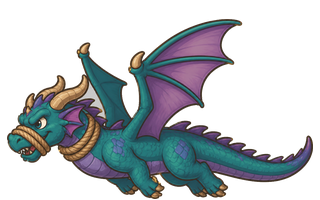
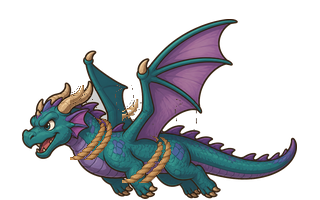
Match Cave Dragon fly ropes to the floor tied stages.
Flying stage 2 had a muzzle instead of the land pose's neck + mid-torso
coils. Rebuild those frames from the stage-1 neck ropes plus a torso stamp
so a mid-fight fly-by reads the same bindings as when he is landed.

Changed region(s): [[0.0, 0.09, 1.0, 1.0]]

diff --git a/tools/paint_dragon_fly_ropes.py b/tools/paint_dragon_fly_ropes.py
@@ -1,0 +1,85 @@
+#!/usr/bin/env python3
+"""Make Cave Dragon fly-bound ropes match the floor tied stages.
+
+Floor stage 1 = neck coils. Floor stage 2 = neck coils + mid-torso coils.
+Existing fly_bound1 already matches stage 1. fly_bound2 wrongly used a muzzle;
+rebuild it from fly_bound1 (keep the neck ropes) plus torso coils stamped in
+the same painted rope style.
+"""
+
+from __future__ import annotations
+
+from pathlib import Path
+
+from PIL import Image
+
+ROOT = Path(__file__).resolve().parents[1]
+OUT = ROOT / "assets" / "world"
+
+
+def _rope_layer(base: Image.Image, tied: Image.Image, region: tuple[int, int, int, int]) -> Image.Image:
+	"""Pixels in `tied` that look like warm rope and differ from `base`, cropped to region."""
+	x0, y0, x1, y1 = region
+	pb, pt = base.load(), tied.load()
+	layer = Image.new("RGBA", base.size, (0, 0, 0, 0))
+	pl = layer.load()
+	for y in range(y0, y1):
+		for x in range(x0, x1):
+			r0, g0, b0, a0 = pb[x, y]
+			r, g, b, a = pt[x, y]
+			if a < 12:
+				continue
+			if a0 >= 12 and abs(r - r0) + abs(g - g0) + abs(b - b0) < 40:
+				continue
+			# Warm rope / lasso tan (matches hand-painted bound1 coils).
+			if r < 90 or g < 55 or b > 140:
+				continue
+			if r < g - 8 or (r - b) < 28:
+				continue
+			pl[x, y] = (r, g, b, a)
+	return layer
+
+
+def _stamp_torso_from_neck(neck_layer: Image.Image) -> Image.Image:
+	"""Duplicate the neck coil cluster onto the mid-torso, slightly larger."""
+	bbox = neck_layer.getbbox()
+	if bbox is None:
+		return Image.new("RGBA", neck_layer.size, (0, 0, 0, 0))
+	coil = neck_layer.crop(bbox)
+	# Mid-body is a bit thicker than the neck on the fly pose.
+	scaled = coil.resize(
+		(max(1, int(coil.size[0] * 1.18)), max(1, int(coil.size[1] * 1.12))),
+		Image.LANCZOS,
+	)
+	out = Image.new("RGBA", neck_layer.size, (0, 0, 0, 0))
+	# Place under the wing root / mid ribs (right of the neck coils).
+	tx = bbox[0] + 52
+	ty = bbox[1] + 14
+	out.paste(scaled, (tx, ty), scaled)
+	return out
+
+
+def _build_bound2(flap: int) -> Path:
+	base = Image.open(OUT / f"boss_cave_dragon_fly_{flap}.png").convert("RGBA")
+	bound1 = Image.open(OUT / f"boss_cave_dragon_fly_bound1_{flap}.png").convert("RGBA")
+	# Neck coils live just behind the jaw on the fly pose.
+	neck = _rope_layer(base, bound1, (70, 85, 145, 160))
+	torso = _stamp_torso_from_neck(neck)
+	out = base.copy()
+	# Neck first (same as bound1), then torso — floor stage 2 order.
+	out.alpha_composite(neck)
+	out.alpha_composite(torso)
+	dest = OUT / f"boss_cave_dragon_fly_bound2_{flap}.png"
+	out.save(dest)
+	return dest
+
+
+def build() -> None:
+	# bound1 already matches floor stage 1 — only repair bound2.
+	for flap in (0, 1):
+		path = _build_bound2(flap)
+		print("wrote", path.relative_to(ROOT))
+
+
+if __name__ == "__main__":
+	build()

diff --git a/tools/build_dragon_art.py b/tools/build_dragon_art.py
@@ -56,6 +56,13 @@ def main() -> int:
         framed.save(dest)
         print("wrote", dest.relative_to(ROOT), framed.size)
 
+    # Fly bound2 concepts painted a muzzle; rebuild from bound1 neck + torso coils
+    # so flying matches floor stage-2 ropes (neck + mid-body, mouth free).
+    sys.path.insert(0, str(ROOT / "tools"))
+    from paint_dragon_fly_ropes import build as paint_fly_ropes  # noqa: E402
+
+    paint_fly_ropes()
+
     flame = CONCEPT / "dragon_flameball_concept.png"
     if flame.is_file():
         shutil.copy2(flame, SOURCE / flame.name)

diff --git a/README.md b/README.md
@@ -2,7 +2,7 @@
 
 Child-friendly 2D western cowboy platformer (Godot **4.4**). Aimed at kids ~6: forgiving jumps, nonviolent lasso. **Classic mode** has no lives or game over; **Advanced Mode** (chosen in **Settings** before starting or continuing a slot) adds a three-life limit, badge milestones, and a game-over return to the start screen. Pick **Cowboy** or **Cowgirl** in Settings — the choice applies across all save slots. **German is the default language**; English is fully supported.
 
-**Content version:** `1.8.58` (see `content_version.txt`). Launchers reimport when this stamp changes.
+**Content version:** `1.8.59` (see `content_version.txt`). Launchers reimport when this stamp changes.
 
 This README is the **binding source of truth** for gameplay, level design, art, i18n, and audio. Agents and contributors must follow it (see [Agent / contributor rules](#agent--contributor-rules)).
 
@@ -91,7 +91,7 @@ godot --headless --path . res://tests/test_moving_platform_obstruction.tscn
 | Level 3 | Stampede Bull | Bounce past horns; lasso glowing back ring 3× while stunned |
 | Level 7 | Midnight Coach | Horse chase; lasso door handles 1→2→3 |
 | Level 10 | Outlaw Kingpin | Lasso both guards, then the kingpin once (walk cycle while patrolling) |
-| Level 15 | Cave Dragon | Starts on the floor, takes off into L↔R flight spitting straight flameballs that die on the floor (2×2), land for lasso; repeat; 3rd lasso ties the mouth |
+| Level 15 | Cave Dragon | Starts on the floor, takes off into L↔R flight spitting straight flameballs that die on the floor (2×2), land for lasso; repeat; ropes on the flying frames match the floor tied stages (neck, then neck+torso); 3rd lasso ties the mouth |
 
 After Kingpin the campaign continues into the cave (levels 11–15). After the Cave Dragon: horizon victory ride, fade, dedication **VOM PAPI FÜR FINN**, then save select.
 
